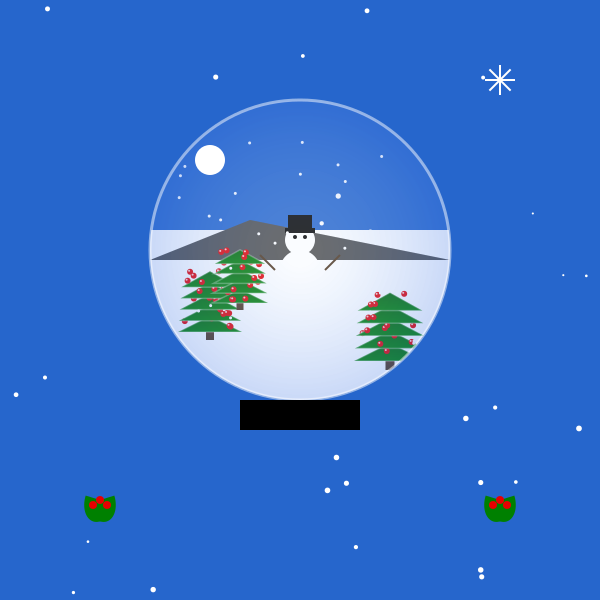
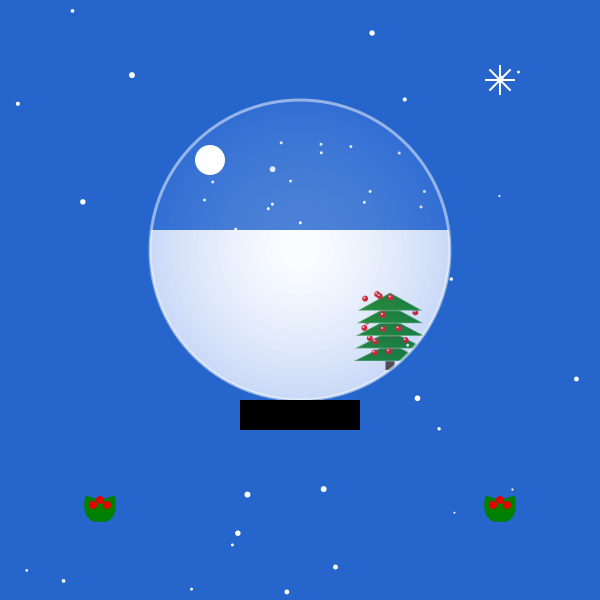
edited

diff --git a/main.py b/main.py
@@ -195,9 +195,8 @@ def draw_scene():
 
     # Draw scene elements in the foreground
     draw_realistic_tree(context, globe_x + 90, globe_y + 120, 90)  # Right tree, moved forward
-    draw_realistic_tree(context, globe_x - 90, globe_y + 90, 80)  # Left tree
-    draw_realistic_tree(context, globe_x - 60, globe_y + 60, 70)  # Left tree
-    draw_snowman(context, globe_x, globe_y + 20)
+
+   # draw_snowman(context, globe_x, globe_y + 20)
 
     # Falling snow
     for _ in range(40):
